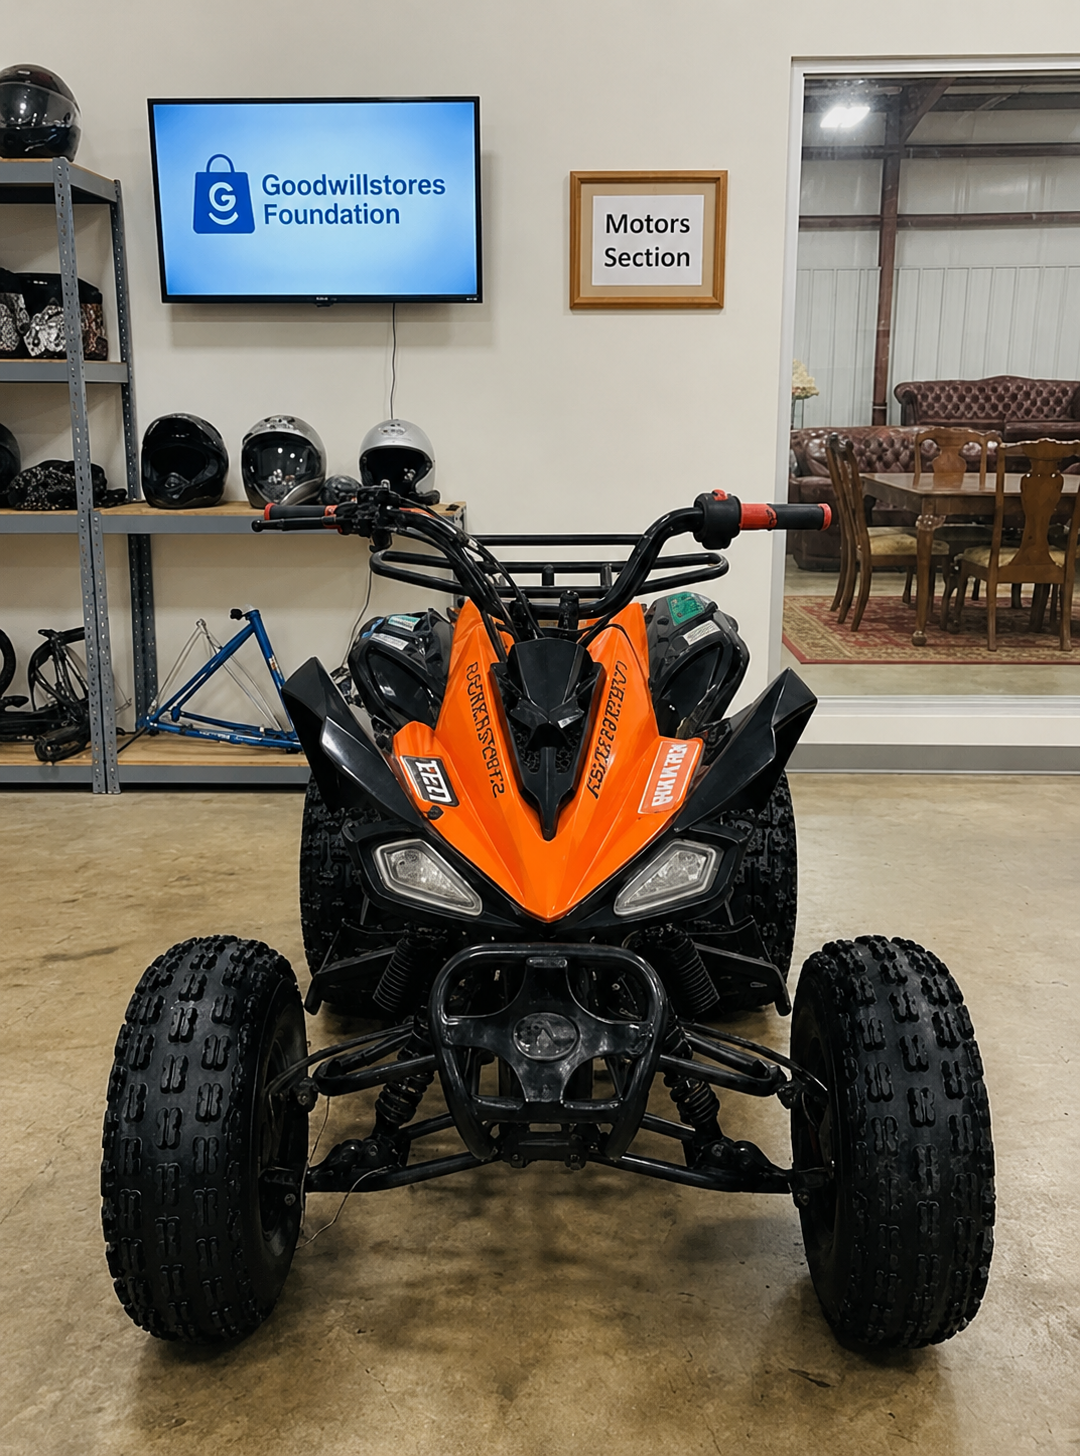
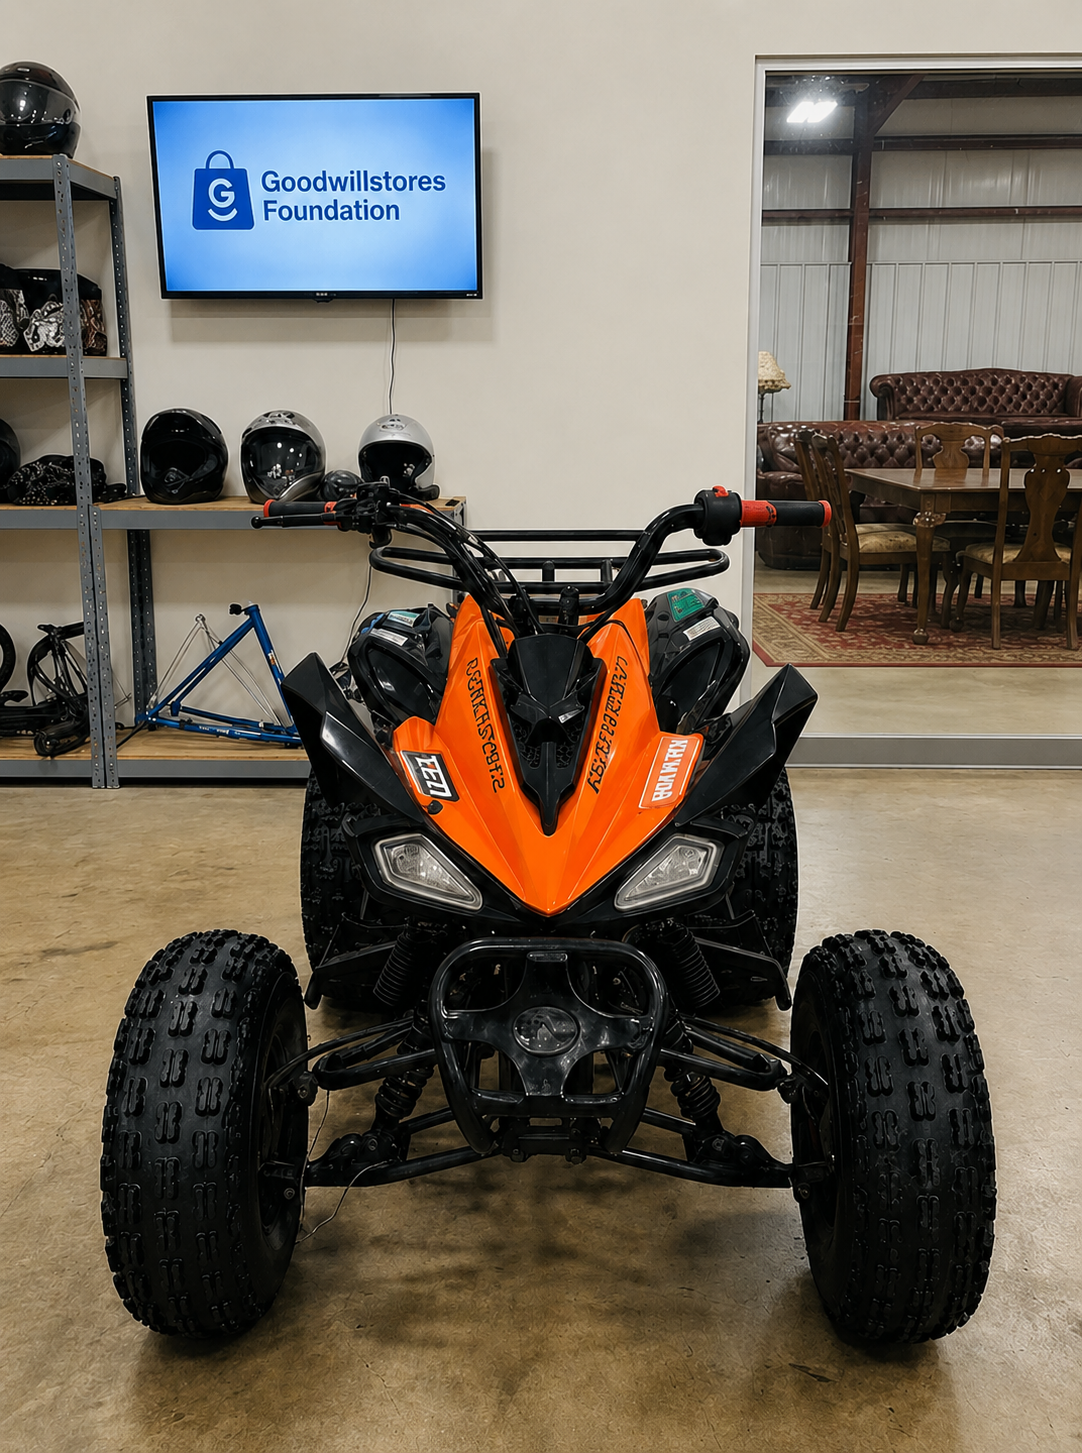
debug: log PayPal state before opening

diff --git a/src/App.jsx b/src/App.jsx
@@ -415,10 +415,10 @@ export default function App() {
   function AutoRotateWinners() {
     const winners = [
       {
-        name: "Jane M.",
-        date: "12 Jan 2026",
+        name: "Melissa D.",
+        date: "26 May 2026",
         ticketNo: "RF-48219",
-        product: "Wonderfold Wagon",
+        product: "Larchmont Dining Set",
         winnerImg: "",
         productImg: "/Beachcroft Patio.jpg",
         verified: true,
@@ -426,45 +426,45 @@ export default function App() {
         location: "New York, USA",
       },
       {
-        name: "Samuel K.",
-        date: "05 Jan 2026",
+        name: "Liam J..",
+        date: "26 Jan 2026",
         ticketNo: "RF-37922",
-        product: "Beachcroft Patio Set",
-        winnerImg: "/Win1 ma.jpg",
-        productImg: "/Wonderfold.jpg",
+        product: "Ballinasloe 3-piece Sectional",
+        winnerImg: "",
+        productImg: "/Dining set_melissa.png",
         verified: true,
         countryFlag: "🇺🇸",
         location: "Texas, USA",
       },
       {
-        name: "Ferdinard Gates A.",
+        name: "Alexander G.",
         date: "29 Dec 2025",
         ticketNo: "RF-29410",
-        product: "Coolster 125cc",
+        product: "NSF Surf Betty",
         winnerImg: "",
-        productImg: "/images/products/coolster.jpg",
+        productImg: "/Surf Betty.png",
         verified: true,
         countryFlag: "🇱🇷",
         location: "Toronto, Canada",
       },
       {
-        name: "Lucy A.",
-        date: "18 Dec 2025",
+        name: "Mae W.",
+        date: "26 Jun 2026",
         ticketNo: "RF-18177",
-        product: "Smart Home Bundle",
-        winnerImg: "/Win4 ma.jpg",
-        productImg: "/images/products/smarthome.jpg",
+        product: "Trek Marlin 5 Gen 2",
+        winnerImg: "",
+        productImg: "/Trek Marlin_mae.png",
         verified: true,
         countryFlag: "🇺🇸",
         location: "Missouri, USA",
       },
       {
-        name: "Trump B",
+        name: "Joshua T.",
         date: "18 Dec 2025",
         ticketNo: "RF-18177",
-        product: "Smart Home Bundle",
+        product: "Venom X21(Dongfang DF50SRT)",
         winnerImg: "",
-        productImg: "/images/products/smarthome.jpg",
+        productImg: "/Venom X21_Joshua.png",
         verified: true,
         countryFlag: "🇺🇸",
         location: "Missouri, USA",